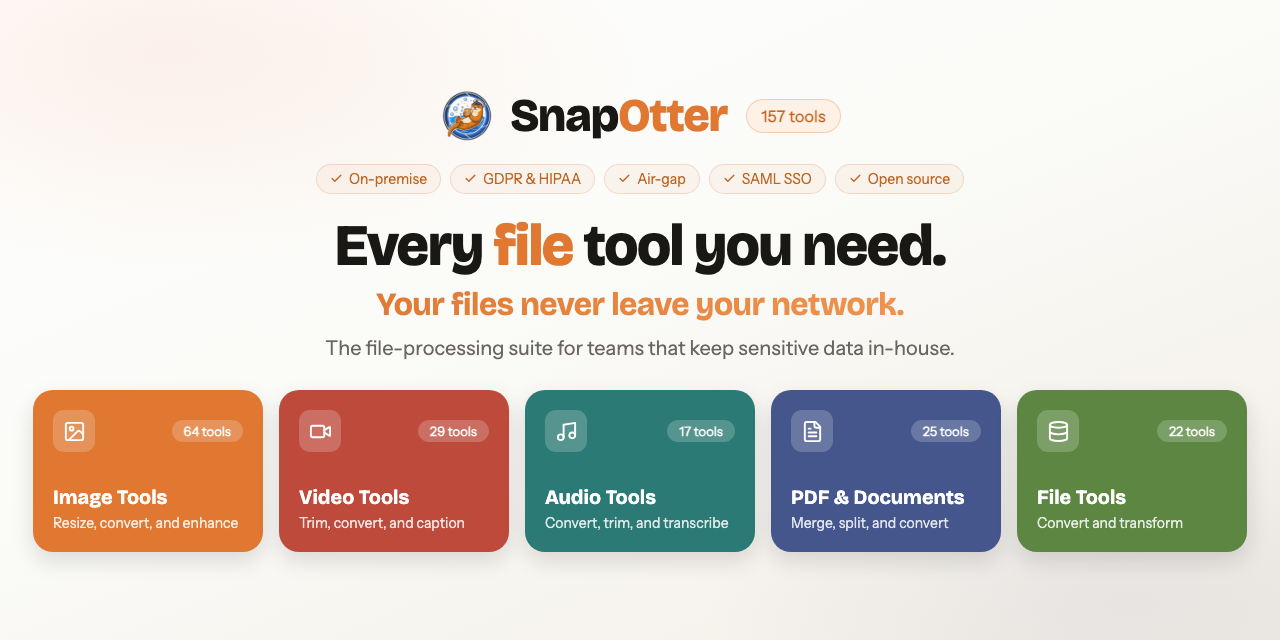
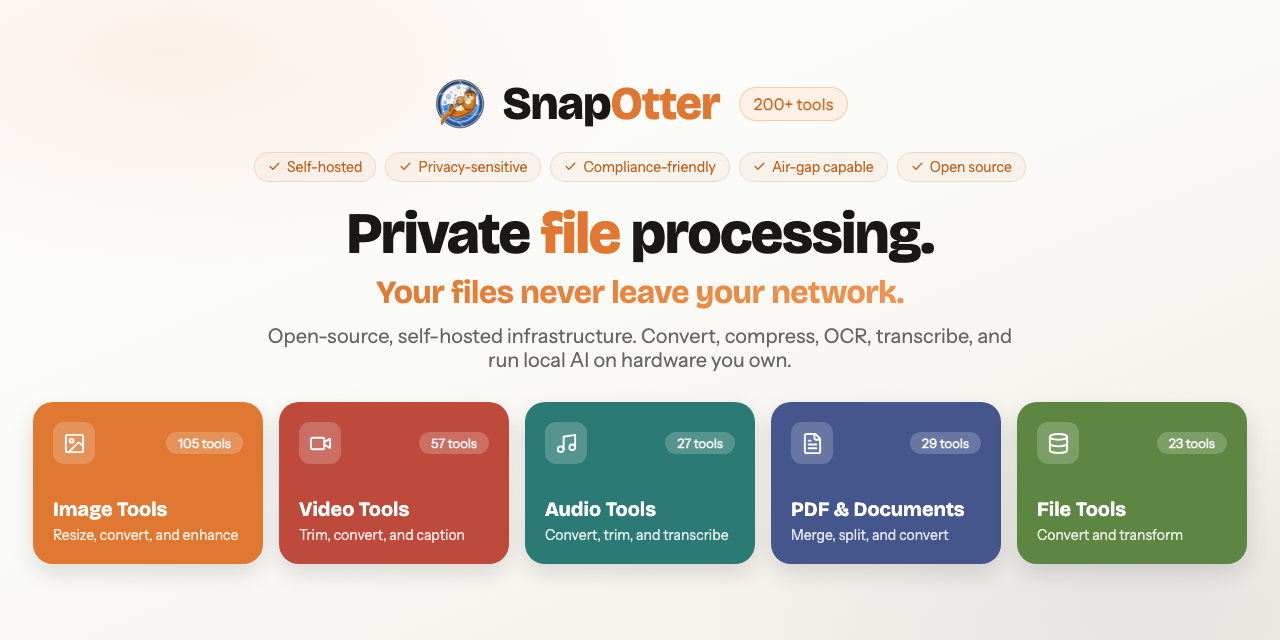
chore(branding): reframe assets to self-hosted infrastructure positioning
Update the OG/social card, banner, brand press kit, root package and
OpenAPI descriptions, and the Docker Hub short description to the
open-source, self-hosted file-processing infrastructure framing.

Regenerate the social preview (now "200+ tools" instead of an exact
count, "Private file processing", "Your files never leave your network")
and sync it to landing, web, and docs. The docs OG was not being synced
before; sync-og.sh now covers it.

Update the in-app About description (English reference) to match;
translations follow in the next i18n sweep.

Changed region(s): [[0.0, 0.25, 1.0, 0.9062], [0.3438, 0.125, 0.6562, 0.2188], [0.125, 0.6562, 0.1875, 0.7188]]

diff --git a/packages/shared/src/i18n/en.ts b/packages/shared/src/i18n/en.ts
@@ -3484,7 +3484,7 @@ export const en = {
       heading: "About",
       appName: "SnapOtter",
       appDescription:
-        "A self-hosted, privacy-first file processing suite with 200+ tools. Convert, compress, edit, transcribe, OCR, and automate image, video, audio, PDF, and file workflows without sending data to the cloud.",
+        "Open-source, self-hosted file-processing infrastructure with 200+ tools. Convert, compress, edit, transcribe, OCR, and automate image, video, audio, PDF, and document workflows without sending data to the cloud.",
       versionLabel: "Version:",
       linksHeading: "Links",
       githubLink: "GitHub Repository",

diff --git a/branding/README.md b/branding/README.md
@@ -2,7 +2,7 @@
 
 Press kit for use in blog posts, articles, reviews, and other publications about SnapOtter. Free to use when referencing SnapOtter.
 
-SnapOtter is an open-source, self-hosted file processing suite with 200+ tools across image, video, audio, PDF, and file workflows.
+SnapOtter is open-source, self-hosted file-processing infrastructure with 200+ tools across image, video, audio, PDF, and document workflows.
 
 ## Files
 

diff --git a/apps/docs/guide/getting-started.md b/apps/docs/guide/getting-started.md
@@ -121,7 +121,7 @@ pnpm dev
 
 ## What You Can Do
 
-### File Processing (241 Tools)
+### File Processing (200+ Tools)
 
 | Modality | Count | Example Tools |
 |----------|-------|---------------|
